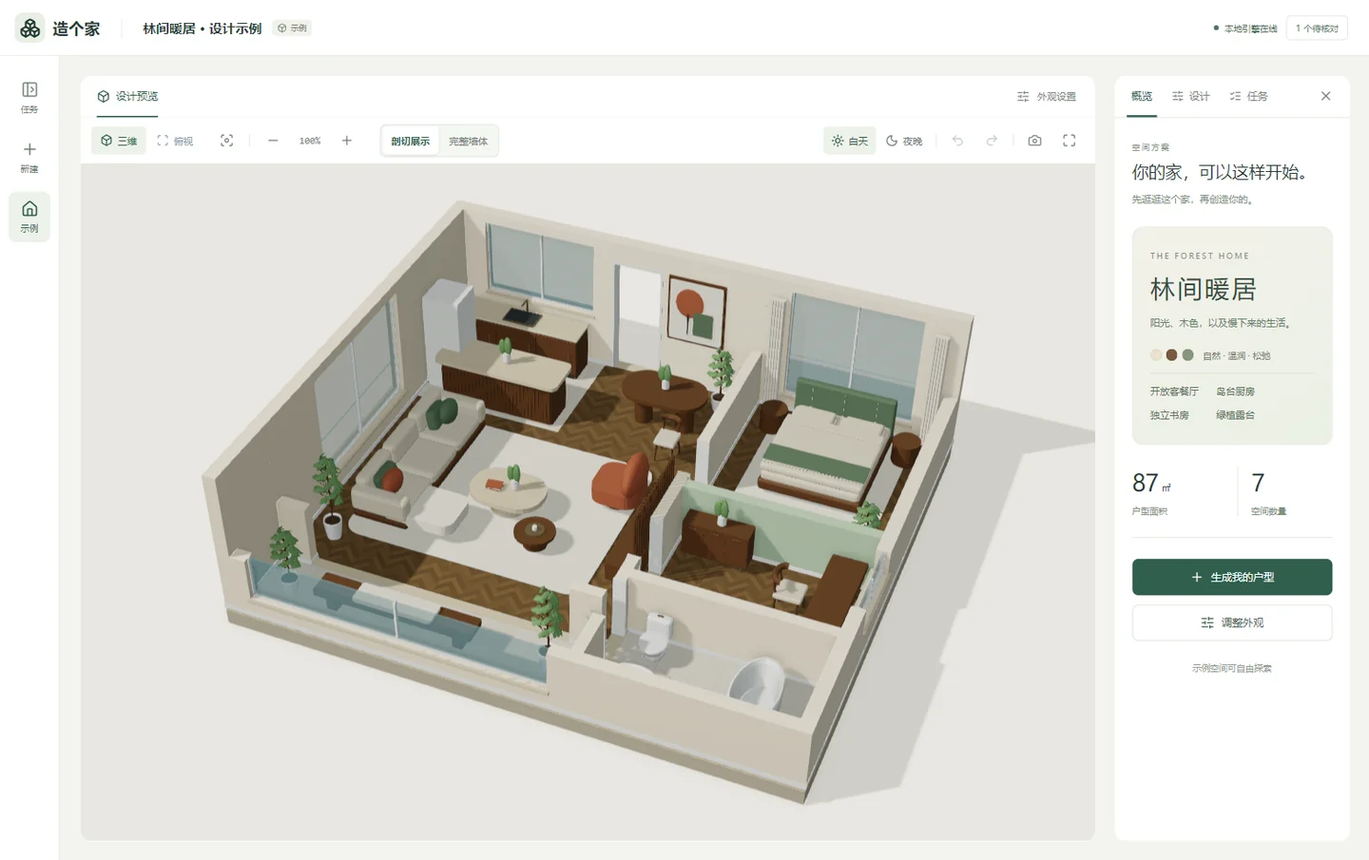
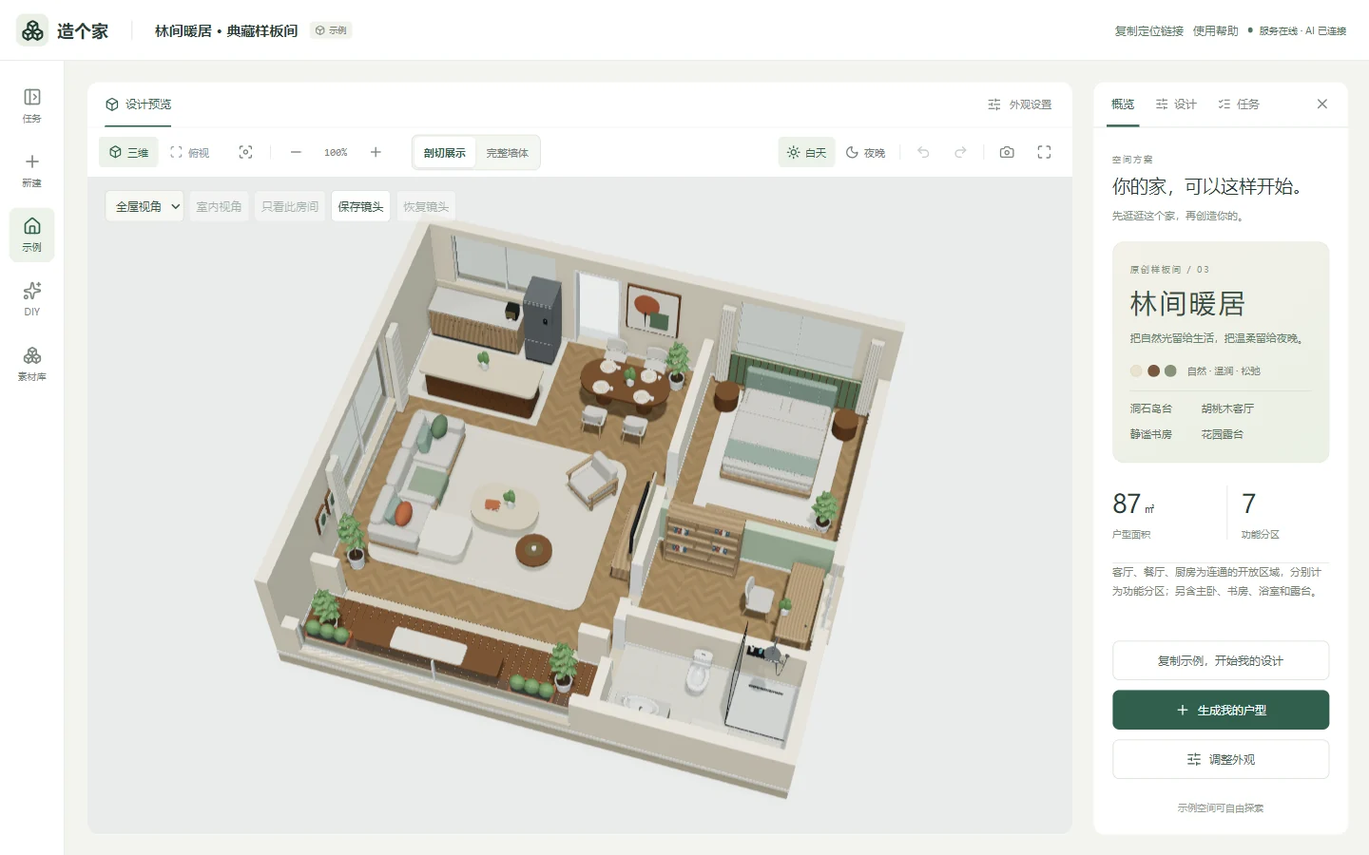
docs: 优化 README 动态演示并新增公开安全政策

diff --git a/README.md b/README.md
@@ -4,122 +4,86 @@
 
 <p align="center">
   <strong>一张户型图，一次空间想象。</strong><br>
-  AI 识别 · 结构核对 · 三维生成 · 自由调整
+  AI 识别 · 三维预览 · 材质搭配 · 家具 DIY
 </p>
 
 <p align="center">
-  <a href="#preview">动态演示</a> ·
-  <a href="#workspace">工作台</a> ·
+  <a href="#preview">空间演示</a> ·
+  <a href="#materials">材质搭配</a> ·
+  <a href="#diy">家具 DIY</a> ·
   <a href="#quickstart">快速开始</a> ·
-  <a href="docs/ai-pipeline-design.md">流程设计</a> ·
-  <a href="docs/testing.md">测试说明</a>
+  <a href="docs/design-workflows.md">详细用法</a> ·
+  <a href="SECURITY.md">安全政策</a>
 </p>
 
 ---
 
-基于 React、Three.js 和 FastAPI 构建的开源 AI 户型设计工作台，通过本地 Codex 将二维户型图转化为可交互的 3D 空间，支持结构核对、手动布局、材质与灯光调整及 GLB 导出，无需依赖 Blender。
+**造个家**是基于 React、Three.js 和 FastAPI 的开源 AI 户型设计工作台。上传二维户型图，核对识别结构，生成可旋转、可调整、可下载的三维空间；还能为房间搭配材质，制作并复用自己的家具。
 
-面向**本地单人使用**：浏览器连接本机服务，任务保存在本机。AI 识别户型，用户确认结构后，程序生成真实 GLB；普通生成无需安装 Blender。
+**本地单人使用** · 浏览器连接本机服务 · 任务保存在本机 · 普通生成无需安装 Blender
 
 <a id="preview"></a>
 
 ## 从平面，到空间
 
 <p align="center">
-  <img src="docs/images/showcase-v3-day.png" alt="林间暖居第三版原创样板间：真实 Blender 家具、洞石岛台、阅读区和花园露台" width="100%">
+  <a href="docs/images/showcase.gif"><img src="docs/images/showcase.gif" alt="林间暖居第三版：真实三维旋转与白天、夜晚照明切换演示" width="100%"></a>
 </p>
 
-<p align="center"><sub>林间暖居 · 第三版原创样板间 · 实际 Three.js 页面截图<br>87㎡、七个空间；用户上传户型的结果取决于原图质量与结构核对。</sub></p>
+<p align="center"><sub>01 / 空间预览 · 旋转看布局，昼夜看氛围<br>87㎡、七个空间的第三版原创样板间，使用项目实际 Three.js 渲染。</sub></p>
 
-<details>
-<summary>查看夜晚效果</summary>
-
-![林间暖居夜景：床头灯、阅读灯与隐藏灯带](docs/images/showcase-v3-night.png)
-
-</details>
+> 演示为随项目提供的原创「林间暖居」，不是上传户型的一键识别结果。用户任务经过结构核对再生成三维，还原度取决于原图与核对结果。
 
 | 看清空间 | 亲手调整 | 保留成果 |
 | :--- | :--- | :--- |
 | 三维 / 俯视 / 墙体剖切 | 墙体 / 门窗 / 家具 / 灯位 | GLB 模型 / 结构数据 |
 | 白天 / 夜晚 / 材质预览 | 撤销 / 草稿 / 独立版本 | 效果图 / 一致性报告 |
 
-## 功能
-
-- 上传 PNG、JPEG 或 WebP 户型图，最大 20 MB。
-- 并排核对原图与识别结构，手动调整墙体、空间、门窗和通道。
-- 在确认结构中规划家具，复用 29 类家具资产，生成带材质的 GLB。
-- 三维／俯视、完整墙体／剖切、白天／夜晚及材质预览。
-- 手动编辑家具、灯位、尺寸、朝向和门窗参数，支持撤销及浏览器草稿。
-- 下载模型、结构数据、质量及一致性报告，导出当前效果图。
-- 保存历史版本、阶段缓存与检查点；服务重启后继续未完成步骤。
-
-首屏「林间暖居」为项目原创设计示例，与用户上传任务分开。第三版复用内置原创 GLB 家具，补齐壁挂电视、步入式淋浴区、开放书架、餐桌摆盘、针织毯、窗帘和露台种植箱；提供白天自然光与夜晚分区暖光。淋浴区借用卫生间实墙，东侧窗前无实体背板遮挡。模型约 6.3 MB，家具重复实例共享几何，旧版模型保留以兼容已有引用。
-
-人工设计中选中淋浴家具，可切换「独立淋浴房 / 步入式 / 开放式」，保留位置、尺寸与朝向，保存后生成新的三维方案。素材库同时提供三种形式；生成与编辑会检查窗户避让、实墙安装和入口通行条件。
-
-运行 `.venv/Scripts/python.exe scripts/build_showcase.py` 可重建新版 GLB 与前端元数据；构建会检查家具碰撞、门口通行和导出建筑截面。运行 `.venv/Scripts/python.exe -m pytest backend/tests/test_showcase.py -q` 可核验已发布模型的结构、家具落地高度及壁挂电视安装高度。
-
-## 家具 DIY
-
-![家具 DIY 工作台：AI 生成的森绿玄关柜与部件编辑](docs/images/diy-workbench.png)
-
-点击左侧「DIY」入口，描述想要的家具、背景墙、屏风或装饰构件，可选择本地 Codex 模型和推理强度。AI 通过项目内 `diy-contract`、`diy-design` 技能与 LangChain / LangGraph 返回可编辑部件数据，经过校验后生成真实 GLB。
-
-1. 输入如「1.2 米宽的原木玄关柜，绿色双开门、黄铜把手」，点击「AI 生成素材」。也可手动新建。
-2. 点选三维部件，调整名称、形状、尺寸、位置、朝向、颜色、粗糙度和金属感；支持增删、复制、撤销及重做。
-3. 保存至本地 SQLite 素材库，或继续输入修改要求，让 AI 生成新版本。任务支持取消；失败会显示原因。
-4. 在成功任务的「人工设计 → 家具 → DIY 素材库」放入素材，继续移动、旋转、整体缩放，或点击「编辑 DIY 部件」。编辑已放置家具时，默认保留户型中的整体尺寸、位置与朝向；可取消「保留户型中的整体尺寸」来使用新的组合尺寸。最后保存为新的三维方案。
-
-DIY 使用独立页面（`/#diy`），保留工作台导航。支持描述示例、部件搜索、单独查看、正面/侧面/俯视与材质预设。切换工作台页面保留当前 DIY 编辑状态；刷新或关闭浏览器前，未保存设计会提示。
-
-### 素材库（模型与材质）
-
-素材库的「材质与配色」页收录工作台全部 15 款配色，按墙面、地板、软装用途浏览和搜索。地板有 8 款可选，可以直接指定房间应用；「全屋地板」会统一替换所有房间并清除单独配色。
-
-在工作台「外观设置 → 地板 → 地板应用区域」选择具体房间后更换材质，其他房间不会串色。预览设置按任务保存在本机，支持撤销、重做和还原。对已完成任务，点击「在人工设计中保存地板」，检查草稿后保存三维方案；也可以在人工设计的「地板 / 空间」里选择素材。地板配色写入每个房间的 `floor_material` 字段，保存的新 GLB 会保留这些材质，原方案不变。
-
-![材质与配色素材库](docs/images/material-library.png)
-
-![不同房间独立铺设地板](docs/images/room-floors.png)
-
-![GLB 素材库：27 类内置家具、用途筛选与真实三维预览](docs/images/builtin-library-v2.png)
-
-左侧「素材库」（`/#library`）统一显示 `assets/`、`public/models/` 中的 GLB 文件、已完成的 DIY 素材和有模型文件的成功户型方案。支持来源筛选、名称/文件名搜索、排序、真实三维预览、尺寸/网格/三角面统计和下载；DIY 素材可直接进入部件编辑，户型模型可打开来源方案。
-
-内置库 2.1 提供 27 类原创家具，新增电视机、电视柜、茶几、边几、床头柜、书柜、鞋柜、洗烘一体机、洗碗机、烤箱、休闲单椅与换鞋凳，升级原有家具细节及淋浴间、冰箱。支持真实模型缩略图和 7 类用途筛选。模型与缩略图可随 Git 分发，本地 DIY 和任务副本继续保存在忽略的 `data/` 中。旧方案不会被素材更新覆盖，已放置快照需重新添加才能使用新版。
-
-2.1 新增独立壁挂电视，默认底部离地 1.05 米，自动寻找避开门窗的完整墙面。人工设计的「底部离地高度」支持调整安装高度，电视与下方低柜按垂直区间判断重叠。坐便器重做为连续裙包陶瓷、开孔座圈和抬起盖板；淋浴房重做为黑框玻璃门、瓷板背墙、恒温花洒和置物架。
-
-素材库索引项目内资源，不扫描整台电脑。新文件放入上述资源目录后点击「刷新素材」。预览支持自包含 GLB；引用外部文件的模型会提示重新导出内嵌资源的 GLB。
-
-内置家具和 DIY 素材可选择已完成的目标方案，点击「放入户型并编辑」；人工设计页也有「从 GLB 素材库添加」入口。可设置 10–200% 放置比例，程序优先在当前空间寻找空位，避让现有家具、墙体和门前通道；找不到空位会提示调整。放入后可整体移动、旋转、缩放、复制和删除，保存为新的三维版本。整套户型和示例空间仅供预览，不作为家具放置。
-
-AI 家具规划使用同一素材目录，可选择具体内置 GLB、额外 GLB 和 DIY 素材。GLB 放入时会规范化为底面居中、Y 轴向上的独立副本，保存到 `data/library/<sha256>.glb`；户型通过内容地址引用，重建前检查完整性，不会因源文件替换或移走而变成其他模型。DIY 仍保存完整部件副本。
-
-新增家具 GLB 放到 `assets/` 下即可被扫描和放置，无需修改旧家具类型枚举；GLB 需内嵌资源、使用米制尺寸，单文件不超过 100 MB。当前放置保存静态网格与材质，不保留骨骼动画或可编辑部件；DIY 才支持部件微调。
-
-Git 边界：`assets/furniture/glb/` 等项目资源会随仓库提交；本机 `data/`、SQLite、任务及家具副本被 `.gitignore` 排除。DIY 可以下载 GLB 后放入项目资源目录再提交，但 GLB 本身不包含 DIY 编辑器的部件设计数据，不能据此恢复部件编辑。不要为共享一个素材而提交整个本机数据库。
-
-素材由方体、圆柱和椭球组合，适合柜子、桌椅、背景墙与装饰的参数化设计，不支持任意雕塑网格或复杂曲面生成。单素材最多 48 部件、宽深各不超过 6 米、高不超过 3 米；每户型最多 512 个 DIY 部件。背景墙为独立装饰构件，建筑墙、门窗及通道仍使用人工设计的对应工具。
-
-放入户型的是完整独立副本，素材库后续修改或移出不会改变已保存方案。保存采用版本冲突检查；未保存修改在关闭或切换素材时会提示。AI 只生成数据，不执行 AI 返回的脚本。
-
-<a id="workspace"></a>
-
-## 让空间成为主角
-
-<a href="docs/images/workbench.webp"><img src="docs/images/workbench.webp" alt="造个家当前工作台：林间暖居示例、三维工具栏与方案概览" width="100%"></a>
-
-<p align="center"><sub>以三维结果为中心，旋转、缩放、剖切与昼夜切换触手可及。</sub></p>
-
 <details>
-<summary><strong>再看一眼：夜间照明与材质调整</strong></summary>
+<summary><strong>查看完整工作台截图</strong></summary>
 
-<a href="docs/images/materials.webp"><img src="docs/images/materials.webp" alt="示例空间夜间照明与暮山蓝墙面材质的实际工作台截图" width="100%"></a>
-
-调整材质，切换照明，比较同一个空间的不同氛围。以上均为随项目提供的原创示例。
+![林间暖居第三版当前工作台](docs/images/workbench.webp)
 
 </details>
+
+<a id="materials"></a>
+
+## 同一个家，不同的氛围
+
+<p align="center">
+  <a href="docs/images/materials.gif"><img src="docs/images/materials.gif" alt="真实外观设置操作：更换墙面饰面、地板铺法并切换夜间照明" width="100%"></a>
+</p>
+
+<p align="center"><sub>02 / 材质搭配 · 漆面、木饰面、墙布与多种地板<br>直接点击材质样板查看结果；GIF 使用原创样板间的实际界面操作。</sub></p>
+
+- 墙面与地板都能调整；房间可单独铺设，人工设计支持逐墙独立饰面。
+- 预览可撤销、重做和还原；将墙地面保存为新的设计版本后，GLB 保留对应材质。
+- 素材库按用途浏览配色与模型，支持搜索、三维预览与下载。
+
+<a id="diy"></a>
+
+## 家具，也可以自己造
+
+<p align="center">
+  <a href="docs/images/diy.gif"><img src="docs/images/diy.gif" alt="家具 DIY 实际操作：从玄关柜模板开始，更换整件家具的饰面、查看正面与侧面并撤销修改" width="100%"></a>
+</p>
+
+<p align="center"><sub>03 / 家具 DIY · 模板起步，换材质，换视角，随时撤销<br>演示为手动模板编辑，不调用 AI，也不展示加速后的 AI 生成等待过程。</sub></p>
+
+描述你想要的家具，让 AI 返回可编辑部件；也可以从模板或空白设计开始。调整部件的形状、尺寸、位置与材质，保存到本地素材库，再放入不同户型中复用。
+
+**29 类内置家具** · **部件编辑** · **GLB 导出与导入** · **素材独立副本**
+
+详细说明、淋浴形式切换、房间地板、素材放置与共享边界见 [设计工作流](docs/design-workflows.md)。
+
+## 把你的户型带进来
+
+1. **上传** — PNG、JPEG 或 WebP 户型图，最大 20 MB。
+2. **核对** — 对照原图与识别结构，调整墙体、空间、门窗和通道。
+3. **生成** — 在确认的结构内规划家具，本地构建并校验真实 GLB。
+4. **完善** — 调整布局、材质与照明，保留原方案，导出新的成果。
+
+任务保留历史版本、阶段缓存与检查点。家具规划不能改写已确认的建筑结构；服务重启后按有效检查点恢复处理。技术方案见 [AI 流程设计](docs/ai-pipeline-design.md)。
 
 ---
 
@@ -303,6 +267,10 @@ node scripts/review/verify_workspace.mjs <任务ID>
 </details>
 
 ---
+
+## 安全与隐私
+
+漏洞报告、支持版本与本地运行边界见 [Security Policy](SECURITY.md)。请勿在公开 Issue 或 PR 中附上密钥、登录信息、私人户型和完整任务数据库。AI 识别会调用所配置的服务，任务本地保存不表示推理完全离线。
 
 ## 许可
 

diff --git a/docs/design-workflows.md b/docs/design-workflows.md
@@ -1,0 +1,56 @@
+# 设计工作流与素材使用
+
+本文保留工作台、家具 DIY、素材库与模型共享的详细用法。产品演示和安装入口见 [README](../README.md)。
+
+## 原创样板间与结构验证
+
+首屏「林间暖居」为项目原创设计示例，与用户上传任务分开。第三版复用内置原创 GLB 家具，补齐壁挂电视、步入式淋浴区、开放书架、餐桌摆盘、针织毯、窗帘和露台种植箱；提供白天自然光与夜晚分区暖光。淋浴区借用卫生间实墙，东侧窗前无实体背板遮挡。模型约 6.3 MB，家具重复实例共享几何，旧版模型保留以兼容已有引用。
+
+人工设计中选中淋浴家具，可切换「独立淋浴房 / 步入式 / 开放式」，保留位置、尺寸与朝向，保存后生成新的三维方案。素材库同时提供三种形式；生成与编辑会检查窗户避让、实墙安装和入口通行条件。
+
+运行 `.venv/Scripts/python.exe scripts/build_showcase.py` 可重建新版 GLB 与前端元数据；构建会检查家具碰撞、门口通行和导出建筑截面。运行 `.venv/Scripts/python.exe -m pytest backend/tests/test_showcase.py -q` 可核验已发布模型的结构、家具落地高度及壁挂电视安装高度。
+
+## 家具 DIY
+
+![家具 DIY 工作台：AI 生成的森绿玄关柜与部件编辑](images/diy-workbench.png)
+
+点击左侧「DIY」入口，描述想要的家具、背景墙、屏风或装饰构件，可选择本地 Codex 模型和推理强度。AI 通过项目内 `diy-contract`、`diy-design` 技能与 LangChain / LangGraph 返回可编辑部件数据，经过校验后生成真实 GLB。
+
+1. 输入如「1.2 米宽的原木玄关柜，绿色双开门、黄铜把手」，点击「AI 生成素材」。也可手动新建。
+2. 点选三维部件，调整名称、形状、尺寸、位置、朝向、颜色、粗糙度和金属感；支持增删、复制、撤销及重做。
+3. 保存至本地 SQLite 素材库，或继续输入修改要求，让 AI 生成新版本。任务支持取消；失败会显示原因。
+4. 在成功任务的「人工设计 → 家具 → DIY 素材库」放入素材，继续移动、旋转、整体缩放，或点击「编辑 DIY 部件」。编辑已放置家具时，默认保留户型中的整体尺寸、位置与朝向；可取消「保留户型中的整体尺寸」来使用新的组合尺寸。最后保存为新的三维方案。
+
+DIY 使用独立页面（`/#diy`），保留工作台导航。支持描述示例、部件搜索、单独查看、正面/侧面/俯视与材质预设。切换工作台页面保留当前 DIY 编辑状态；刷新或关闭浏览器前，未保存设计会提示。
+
+### 素材库（模型与材质）
+
+素材库的「材质与配色」页收录工作台的墙面、地板与软装材质，按用途浏览和搜索。地板有 8 款可选，可以直接指定房间应用；「全屋地板」会统一替换所有房间并清除单独配色。
+
+在工作台「外观设置 → 地板 → 地板应用区域」选择具体房间后更换材质，其他房间不会串色。预览设置按任务保存在本机，支持撤销、重做和还原。对已完成任务，点击「在人工设计中保存地板」，检查草稿后保存三维方案；也可以在人工设计的「地板 / 空间」里选择素材。地板配色写入每个房间的 `floor_material` 字段，保存的新 GLB 会保留这些材质，原方案不变。
+
+![材质与配色素材库](images/material-library.png)
+
+![不同房间独立铺设地板](images/room-floors.png)
+
+![GLB 素材库：27 类内置家具、用途筛选与真实三维预览](images/builtin-library-v2.png)
+
+左侧「素材库」（`/#library`）统一显示 `assets/`、`public/models/` 中的 GLB 文件、已完成的 DIY 素材和有模型文件的成功户型方案。支持来源筛选、名称/文件名搜索、排序、真实三维预览、尺寸/网格/三角面统计和下载；DIY 素材可直接进入部件编辑，户型模型可打开来源方案。
+
+内置库 2.1 提供 27 类原创家具，新增电视机、电视柜、茶几、边几、床头柜、书柜、鞋柜、洗烘一体机、洗碗机、烤箱、休闲单椅与换鞋凳，升级原有家具细节及淋浴间、冰箱。支持真实模型缩略图和 7 类用途筛选。模型与缩略图可随 Git 分发，本地 DIY 和任务副本继续保存在忽略的 `data/` 中。旧方案不会被素材更新覆盖，已放置快照需重新添加才能使用新版。
+
+2.1 新增独立壁挂电视，默认底部离地 1.05 米，自动寻找避开门窗的完整墙面。人工设计的「底部离地高度」支持调整安装高度，电视与下方低柜按垂直区间判断重叠。坐便器重做为连续裙包陶瓷、开孔座圈和抬起盖板；淋浴房重做为黑框玻璃门、瓷板背墙、恒温花洒和置物架。
+
+素材库索引项目内资源，不扫描整台电脑。新文件放入上述资源目录后点击「刷新素材」。预览支持自包含 GLB；引用外部文件的模型会提示重新导出内嵌资源的 GLB。
+
+内置家具和 DIY 素材可选择已完成的目标方案，点击「放入户型并编辑」；人工设计页也有「从 GLB 素材库添加」入口。可设置 10–200% 放置比例，程序优先在当前空间寻找空位，避让现有家具、墙体和门前通道；找不到空位会提示调整。放入后可整体移动、旋转、缩放、复制和删除，保存为新的三维版本。整套户型和示例空间仅供预览，不作为家具放置。
+
+AI 家具规划使用同一素材目录，可选择具体内置 GLB、额外 GLB 和 DIY 素材。GLB 放入时会规范化为底面居中、Y 轴向上的独立副本，保存到 `data/library/<sha256>.glb`；户型通过内容地址引用，重建前检查完整性，不会因源文件替换或移走而变成其他模型。DIY 仍保存完整部件副本。
+
+新增家具 GLB 放到 `assets/` 下即可被扫描和放置，无需修改旧家具类型枚举；GLB 需内嵌资源、使用米制尺寸，单文件不超过 100 MB。当前放置保存静态网格与材质，不保留骨骼动画或可编辑部件；DIY 才支持部件微调。
+
+Git 边界：`assets/furniture/glb/` 等项目资源会随仓库提交；本机 `data/`、SQLite、任务及家具副本被 `.gitignore` 排除。DIY 可以下载 GLB 后放入项目资源目录再提交，但 GLB 本身不包含 DIY 编辑器的部件设计数据，不能据此恢复部件编辑。不要为共享一个素材而提交整个本机数据库。
+
+素材由方体、圆柱和椭球组合，适合柜子、桌椅、背景墙与装饰的参数化设计，不支持任意雕塑网格或复杂曲面生成。单素材最多 48 部件、宽深各不超过 6 米、高不超过 3 米；每户型最多 512 个 DIY 部件。背景墙为独立装饰构件，建筑墙、门窗及通道仍使用人工设计的对应工具。
+
+放入户型的是完整独立副本，素材库后续修改或移出不会改变已保存方案。保存采用版本冲突检查；未保存修改在关闭或切换素材时会提示。AI 只生成数据，不执行 AI 返回的脚本。

diff --git a/SECURITY.md b/SECURITY.md
@@ -1,0 +1,56 @@
+# Security Policy · 安全政策
+
+造个家（LayoutSculpt）是开源的本地单人户型设计工作台。我们欢迎对代码、依赖、文件处理和 AI 调用边界的安全反馈。
+
+## 支持范围
+
+| 版本 | 安全维护 |
+| --- | --- |
+| `main` 分支的最新提交 | 接收报告并提供修复 |
+| 旧提交、旧模型及自行修改的版本 | 不单独维护；请先在最新版本复现 |
+
+目前没有独立的长期支持分支。修复通过仓库提交交付，建议更新到包含修复的提交后重新安装依赖、构建页面，并按说明重启服务。
+
+## 私密报告漏洞
+
+**请勿在公开 Issue、PR、讨论或截图中发布可利用的漏洞细节、凭据或用户数据。**
+
+1. 优先在本仓库 **Security → Report a vulnerability** 提交私密报告：[进入漏洞报告页面](https://github.com/Li-Rui-Zhe/LayoutSculpt/security/advisories/new)。此入口需要仓库已开启 GitHub 的私密漏洞报告功能。
+2. 如果入口不可用，请通过[维护者 GitHub 主页](https://github.com/Li-Rui-Zhe)上公开提供的私密联系方式联系；若没有可用方式，可创建仅用于请求私密联系渠道的 Issue，标题为「请求私密安全报告渠道」，不要附带漏洞内容或复现材料。
+3. 在维护者确认影响及修复方案前，请保留利用细节私密。是否、何时公开，由报告者和维护者协商；不要求无限期保密。
+
+报告建议包含：
+
+- 受影响的提交号、操作系统，以及 Node.js、Python、浏览器版本。
+- 漏洞影响、触发条件与最小复现步骤。
+- 脱敏的请求、日志或最小测试文件；使用虚构户型和测试数据。
+- 已知的缓解措施或修复建议，以及便于后续联系的方式。
+
+不要附上 API 密钥、Codex 登录文件、完整 `.env`、真实住址、完整任务数据库或个人户型原图。若凭据已经泄露，请先撤销或轮换，再提交脱敏报告。
+
+## 本地运行的安全边界
+
+- **运行方式：**默认仅监听 `127.0.0.1`，浏览器连接本机服务。项目没有多用户认证与租户隔离；将服务绑定到公网或通过反向代理开放，不属于当前支持的部署方式。
+- **本机访问：**Host 与 Origin 检查用于限制部分浏览器请求，不替代身份认证、操作系统权限或对本机恶意程序的防护。其他拥有本机访问权限的进程仍可能访问服务和文件。
+- **AI 与数据：**项目调用本机已安装、已登录的 Codex CLI。户型图、提示和必要的结构上下文会按任务发送给配置的 AI 服务；“任务保存在本机”不表示 AI 推理完全离线。请确认自己有权使用这些数据，并核对所选服务的数据处理政策。
+- **凭据：**本机 CLI 登录信息和项目 `.env` 不应写入代码、截图、报告、模型元数据或 Git 历史。`.gitignore` 只能防止部分误提交，不能替代提交前检查。
+- **模型与文件：**外部 GLB、图片和项目包应来自可信来源。对来源不明的文件，先在隔离环境中检查；不要将导入功能视为通用恶意文件检测器。
+- **AI 输出：**AI 返回结构和部件数据，程序负责校验与建模，不把返回文本作为任意脚本执行。这一设计仍需要对解析、引用、路径和资源消耗进行持续检查。
+- **数据备份：**`data/`、浏览器草稿和配置可能包含私人信息。备份与项目导出文件应按敏感数据保管，分享前确认内容。
+
+## 我们重点关注的问题
+
+- 非预期的命令执行、文件读取／写入、目录穿越或压缩包解压越界。
+- 凭据、私人户型、任务成果或数据库的非预期泄露。
+- 跨站请求、Host／Origin 检查绕过或可执行内容注入。
+- 图片、模型、项目包或 AI 响应触发的可重复资源耗尽。
+- 不可信 AI 数据突破约定的执行、文件访问或素材引用边界。
+- 实际可触发的依赖漏洞；请说明在本项目中的入口和影响。
+
+正常的 AI 识别误差、家具摆放问题、渲染差异或生成耗时，通常通过普通 Issue 反馈。如果这些问题同时造成数据泄露、越权或资源攻击，仍应私密报告。
+
+## 响应与披露
+
+本项目由个人维护，**不提供固定响应时限、付费漏洞奖励或持续值守承诺**。收到有效报告后，会评估影响、与报告者沟通，并视情况提供缓解措施或修复。公开修复说明会避免泄露凭据与私人数据；经报告者同意，可注明其贡献。
+
+测试应仅在自己拥有或明确获准使用的本地环境中进行。请勿访问他人数据、干扰其他用户任务或借助漏洞测试消耗他人的 AI 配额。

diff --git a/docs/repository.md b/docs/repository.md
@@ -5,7 +5,7 @@
 ## 保留
 
 - React / Three.js 前端、FastAPI 后端和项目 AI 契约。
-- 14 类运行时家具 GLB、当前首页设计示例、材质与上传演示户型。
+- 29 类运行时家具 GLB、当前首页设计示例、材质与上传演示户型。
 - pnpm 锁文件、Python 依赖及已验证环境的依赖快照。
 - 单元测试、真实 GLB 校验、浏览器检查及基准测试脚本。
 - 可选离线家具制作代码，用于重建本地源工程。
@@ -25,7 +25,9 @@
 
 ### README 展示素材
 
-`docs/images/` 仅保留 README 直接引用的四个文件：品牌横幅 `header.svg`、实际三维旋转与昼夜切换 `showcase.gif`，以及当前工作台 `workbench.webp` 和材质调整 `materials.webp`。演示均使用随项目分发的原创「林间暖居」，不包含用户任务或上传原图。截图采用 WebP，GIF 为压缩后的循环录制；原始帧和制作中间文件不提交。
+README 直接使用品牌横幅 `header.svg`、第三版原创空间演示 `showcase.gif`、墙地面搭配 `materials.gif`、家具模板编辑 `diy.gif`，以及当前工作台 `workbench.webp`。GIF 来自真实程序渲染和界面操作；空间采用随项目分发的「林间暖居」，DIY 采用内置玄关柜模板，不包含用户任务、私人物品或上传原图。GIF 压缩后循环播放，原始帧、录制环境和制作中间文件保留在被忽略的 `data/` 中。
+
+详细用法移至 [设计工作流](design-workflows.md)，相关功能截图放在 `docs/images/` 并由文档引用。公开安全报告方式与数据处理边界见根目录 [SECURITY.md](../SECURITY.md)。
 
 ## 本地备份
 
